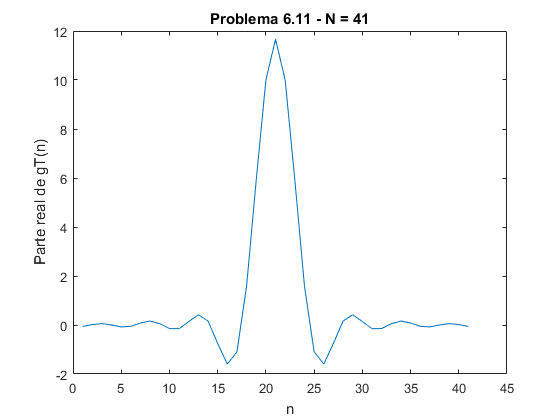
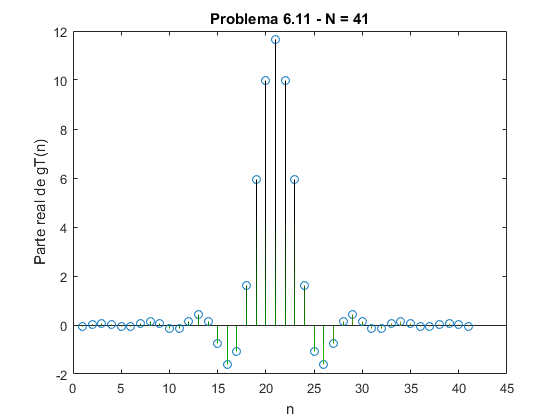
Cambio en imágenes y problemas

Changed region(s): [[0.1214, 0.0929, 0.6071, 0.8976], [0.6071, 0.7429, 0.85, 0.8048]]

diff --git a/Problemas/Problem_6_14.m b/Problemas/Problem_6_14.m
@@ -20,8 +20,8 @@ echo on ;
 
  figure(1)
  g_T=real(g_T) ; % The imaginary part is due to the finite machine precision
- plot(g_T);
- title('Problema 6.12');
+ stem(g_T);
+ title('Problema 6.14');
  xlabel('n');
  ylabel('Parte real de gT(n)');
  
@@ -32,7 +32,7 @@ echo on ;
 
 YfreqDomain = fft(g_T,8/T); %take the fft of our step funcion, y(t)
 y=abs(YfreqDomain);
-plot(fftshift(y));
+stem(fftshift(y));
 xlabel('fT')
 ylabel('Sv/f)')
-title('Problema 6.12')
+title('Problema 6.14')
